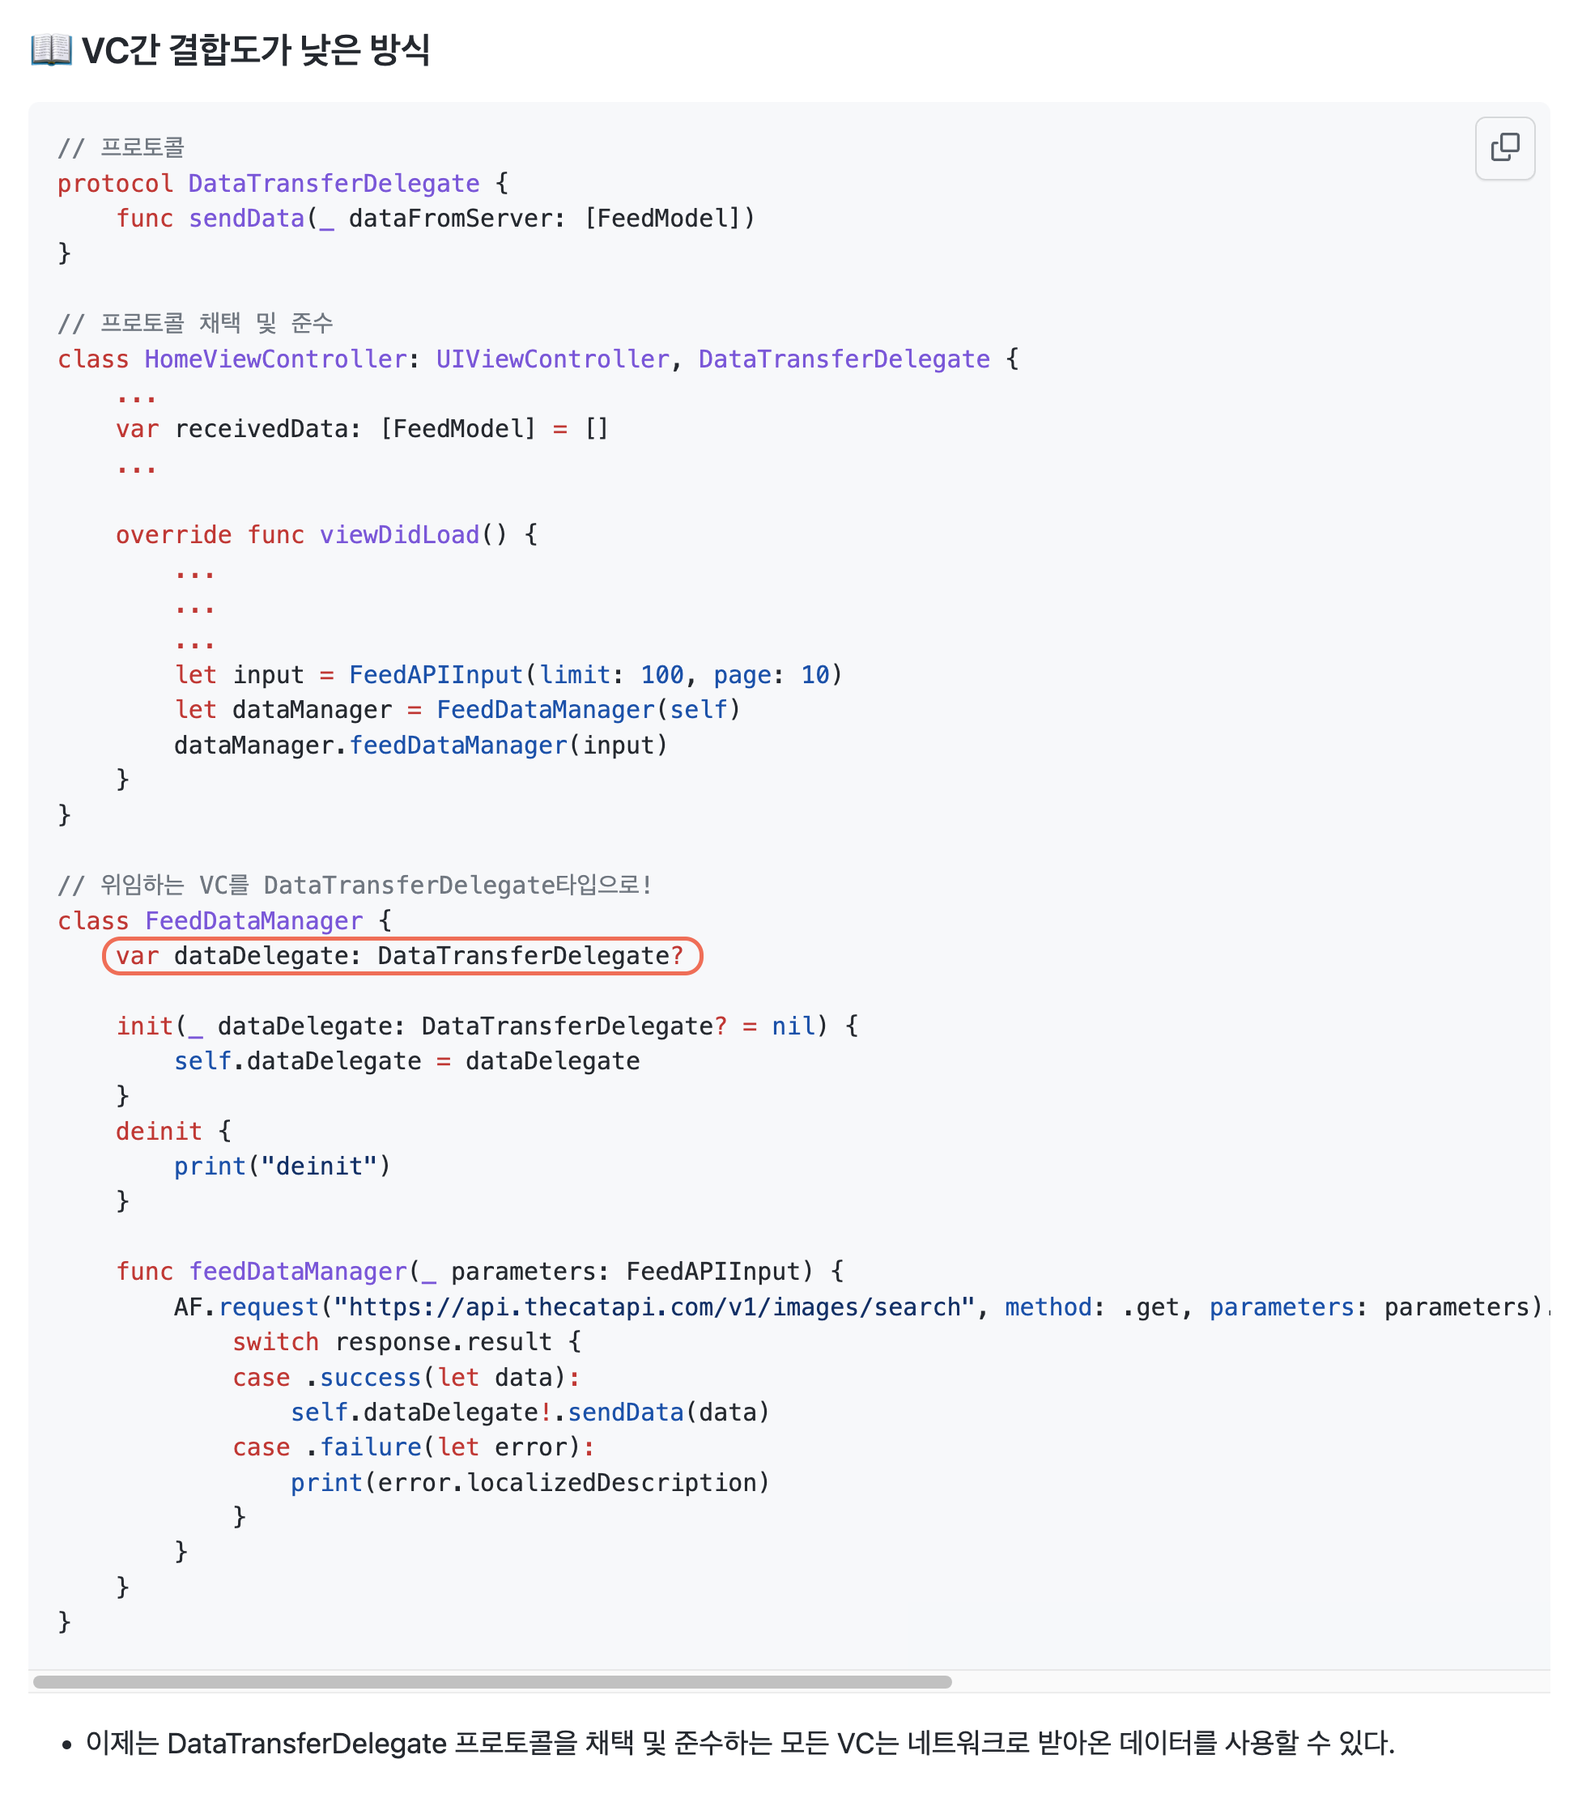
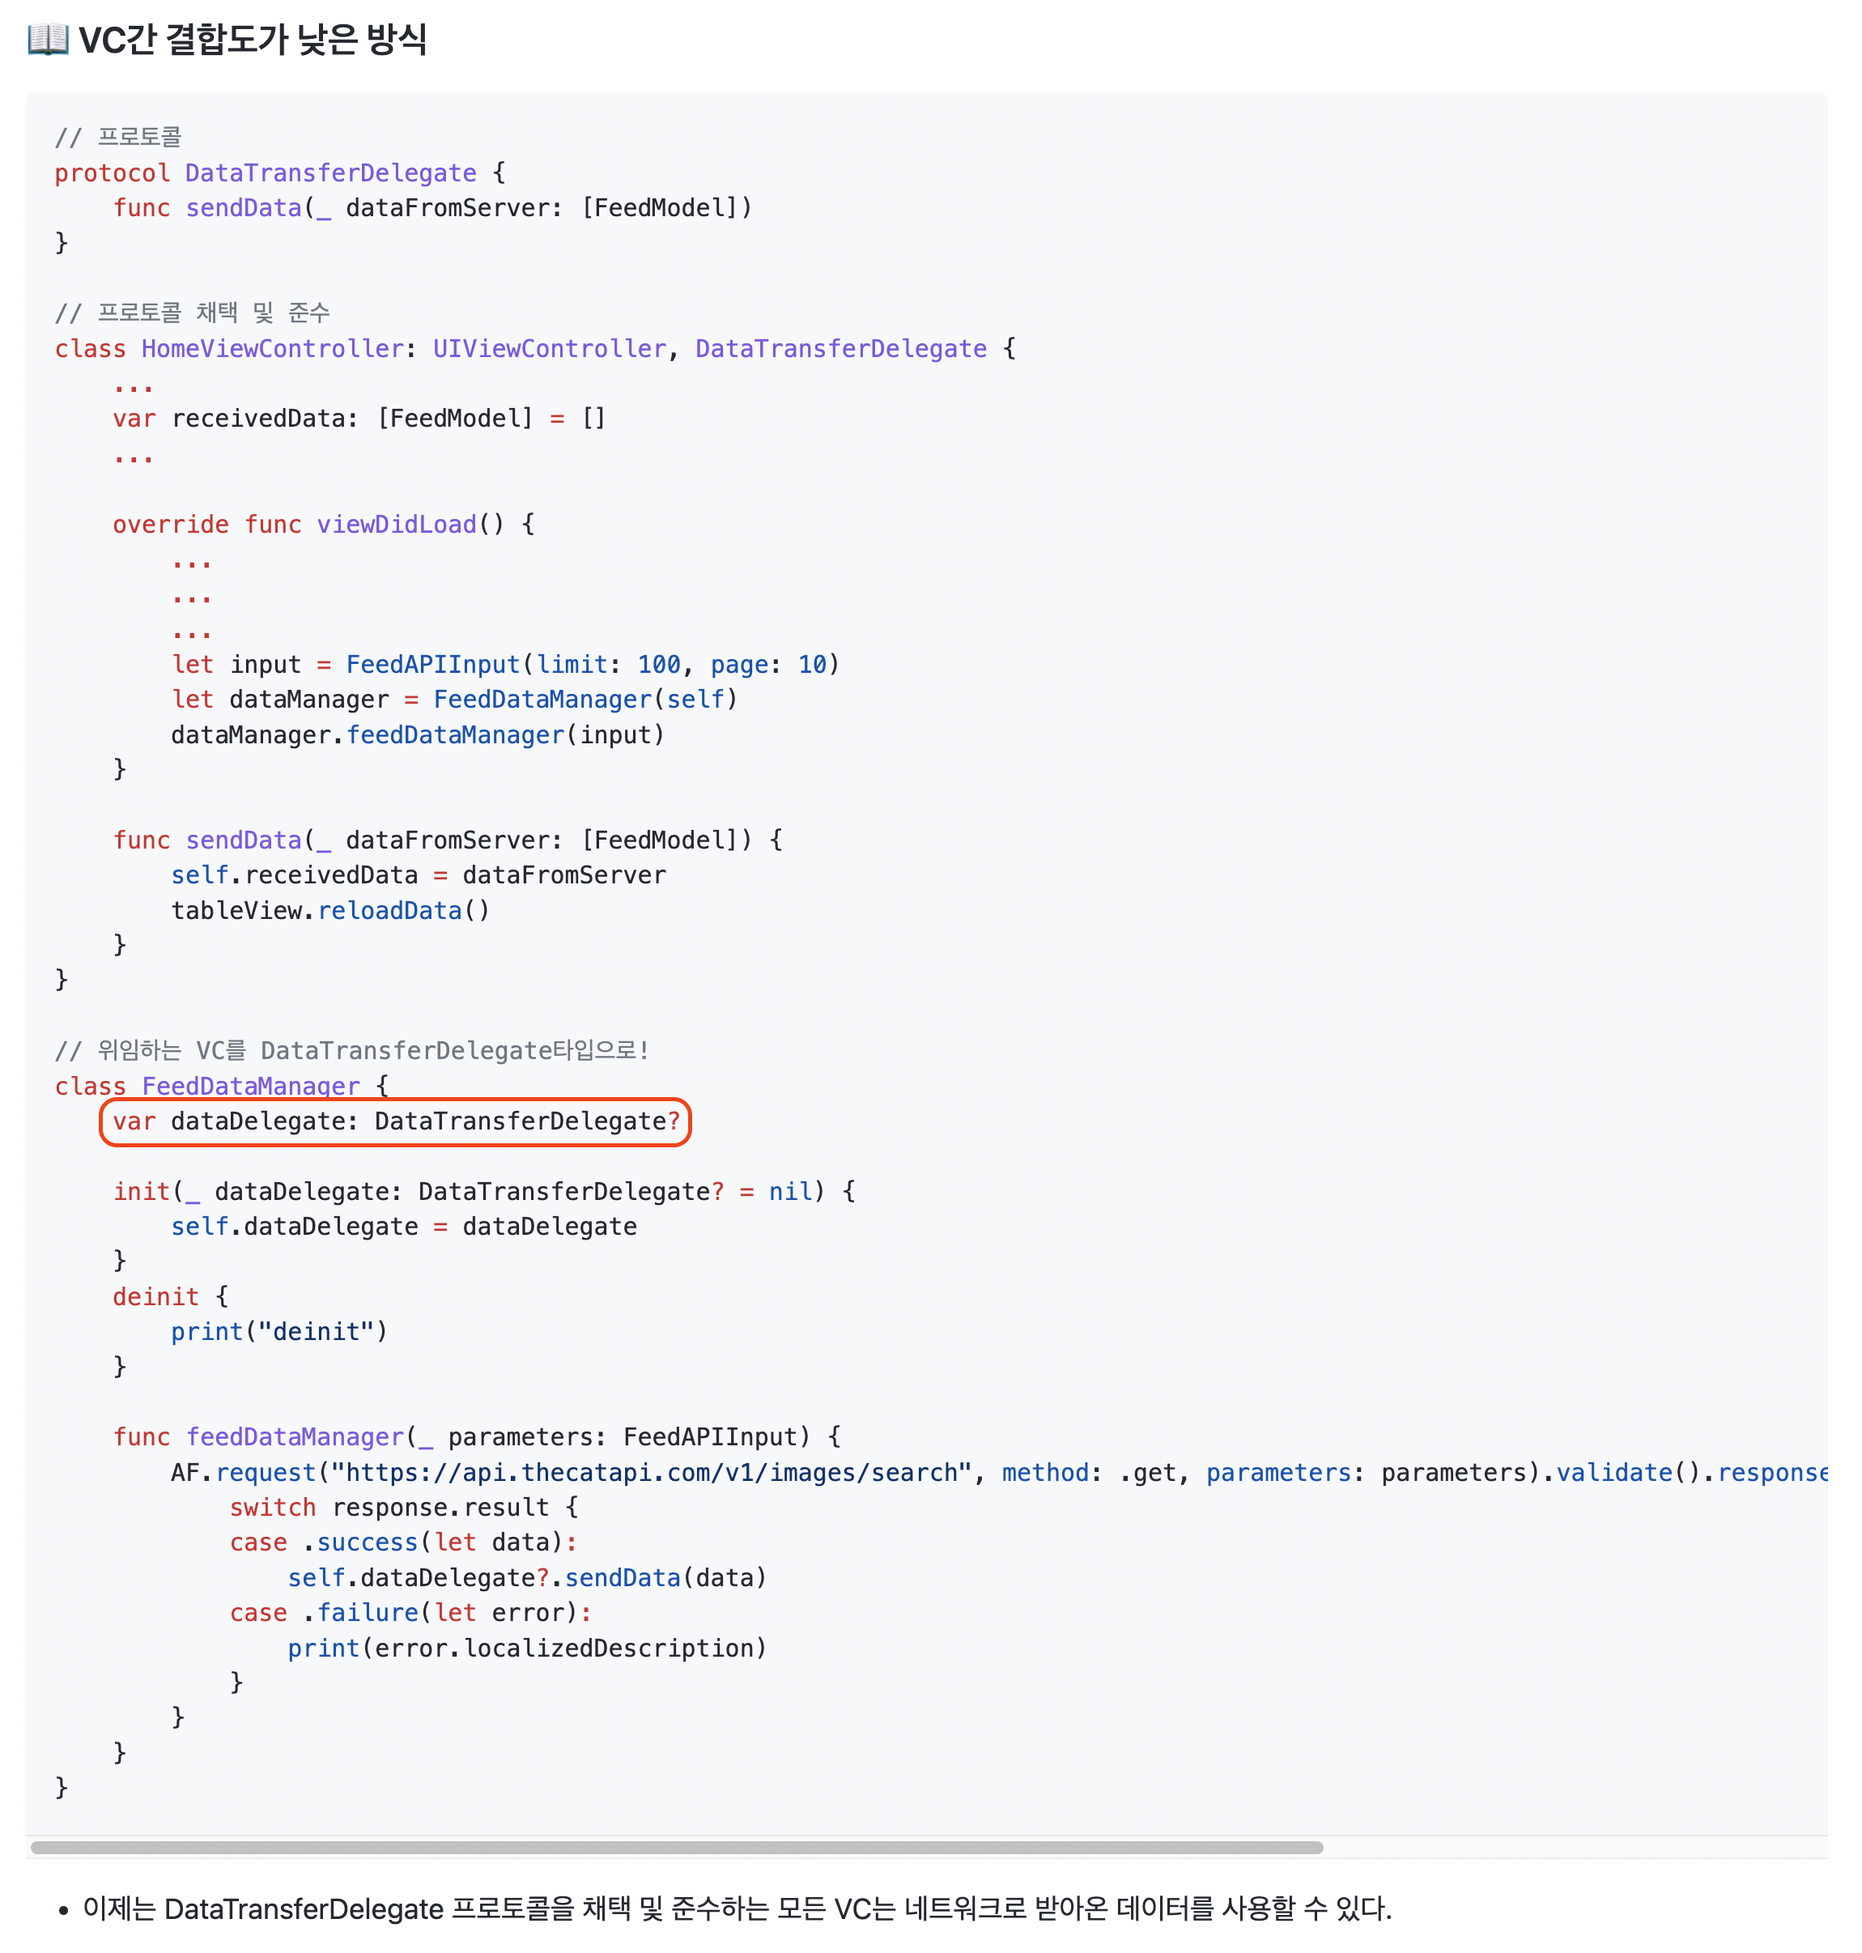
refactor: 내용 보강 및 일부 이미지 수정

diff --git a/DesignPattern/ConsideringRetainCycleWhenUseOfDelegateProtocol/README.md b/DesignPattern/ConsideringRetainCycleWhenUseOfDelegateProtocol/README.md
@@ -4,16 +4,36 @@
 ## 🍎 Delegate Protocol을 사용해 VC간 결합도는 낮췄지만...
 - Catstagram 프로젝트에서 [Delegate Protocol을 만들어 VC간 결합도를 낮추는 코드](https://github.com/KayAhn0126/iOS-Study/tree/main/DesignPattern/DelegateProtocolwithLowCoupling)를 구현했었다.
 - 이전에 구현했던 Delegate protocol을 타입으로 하는 프로퍼티는 아래 이미지의 빨간 타원안에 코드처럼 강한 참조로 구현이 되어있었다.
-![](https://i.imgur.com/dznDtRT.png)
+![](https://i.imgur.com/FK2AKis.jpg)
 - 당시에 메모리 릭 관련으로 테스트를 해보았을때, 메모리 릭 발생하지 않았던 이유는 단순히 FeedDataManager 인스턴스를 생성하는 ViewController에서 FeedDataManager 인스턴스는 viewDidLoad()에서 생성되었고 해제되었기 때문이라고 생각한다.
 ![](https://i.imgur.com/dCgWmJM.png)
 - 하지만, 만약 FeedDataManager 인스턴스가 짧게 생성되었다가 해제되는 사이클을 가진게 아니라 일반 인스턴스의 프로퍼티처럼 메모리상에 오래 유지가 되었다면 Retain Cycle이 발생했을지도 모른다.
 - Retain Cycle을 피하기 위해 Delegate Protocol을 타입으로 가지는 프로퍼티는 왜 weak로 선언이 되어야하며, 그에 맞게 프로토콜을 구현하는법까지 공부해봤다.
 
-## 🍎 프로토콜 선언부
+## 🍎 결합도를 낮췄으니 retain cycle을 방지하는 코드 작성하기
+- 먼저 retain cycle을 방지하기 위한 코드를 보자.
+- 프로토콜 부분
+
+| 전 | 후 |
+| :-: | :-: |
+|  ![](https://i.imgur.com/zlDBjGW.png) | ![](https://i.imgur.com/47ZZx07.png) |
+
+- 약한 참조의 프로퍼티 만들기
+
+| 전 | 후 |
+| :-: | :-: |
+| ![](https://i.imgur.com/QFcCIS1.png) | ![](https://i.imgur.com/SYXGVMk.png) |
+
+- 왜 DataTransferDelegate 프로토콜에 AnyObject 프로토콜을 채택했을까?
+- AnyObject를 사용하지 않고 weak 키워드를 통해 약한참조 프로퍼티를 만들면 안되는 것일까?
+- AnyObject를 사용하지 않고 weak 키워드를 사용했을 때
+![](https://i.imgur.com/BrzOXIm.png)
+- weak 키워드는 클래스가 아닌 바운드에는 사용할 수 없다고 나온다.
+    - weak or unowned 키워드는 참조하는 대상에 RC를 올리지 않는 목적으로 사용된다.
+    - 약하게 참조한다는 의미는 클래스에서만 사용가능하기 때문에 AnyObject 프로토콜을 채택한 것.
+
+## 🍎 AnyObject는 어떤 프로토콜인가?
 - 먼저 '**프로토콜은 클래스, 구조체, 열거형에서 사용될 수 있다**' 라는것을 기억하자.
-![](https://i.imgur.com/TjQyZji.png)
-- 프로토콜 선언부를 보면 AnyObject 프로토콜을 채택하고 있다.
 - AnyObject 프로토콜은 무엇인가? -> 정의부를 가서 찾아보자!
 ![](https://i.imgur.com/6rTFHaf.png)
 - the protocol to which all class types implicitly conform
@@ -35,8 +55,6 @@
     - AnyObject를 사용해야한다.
     - AnyObject와 class는 동일하고 다른점은 없다.
     - class는 언젠가 사용되지 않을것이다.
-
-
 
 ## 🍎 Citation
 - [스위프트 포럼](https://forums.swift.org/t/class-only-protocols-class-vs-anyobject/11507)
